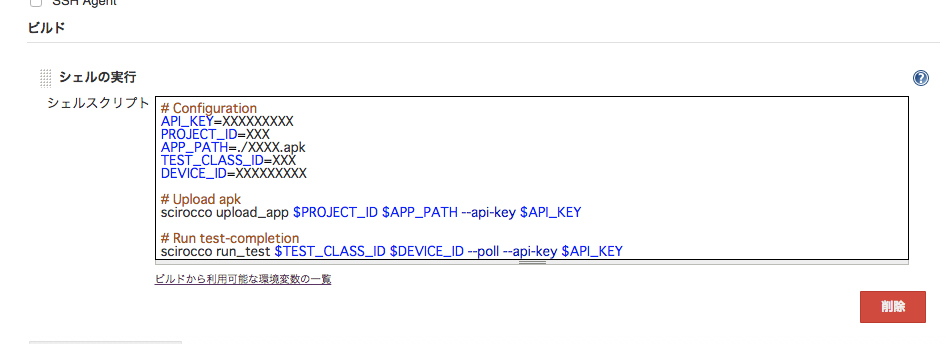
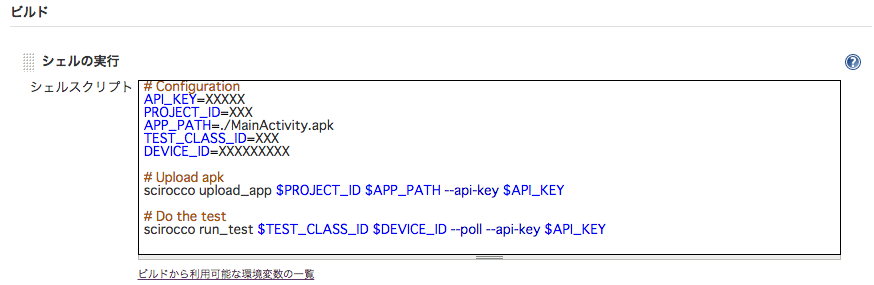
Update README.md

diff --git a/README.md b/README.md
@@ -32,25 +32,31 @@ Or install it yourself as:
 
 ## Jenkins Integration
 
-In Jenkins create a new Execute Shell build step as below.
+* In Jenkins, set up a new task.
+* In the "Execute shell" section, add the following:
 
-    # Configuration
-    API_KEY=XXXXXXXXX
-    PROJECT_ID=XXX
-    APP_PATH=./XXXX.apk
-    TEST_CLASS_ID=XXX
-    DEVICE_ID=XXXXXXXXX
+~~~
+# Configuration
+API_KEY=XXXXX
+PROJECT_ID=XXX
+APP_PATH=./MainActivity.apk
+TEST_CLASS_ID=XXX
+DEVICE_ID=XXXXXXXXX
 
-    # Upload apk
-    scirocco upload_app $PROJECT_ID $APP_PATH --api-key $API_KEY
+# Upload apk
+scirocco upload_app $PROJECT_ID $APP_PATH --api-key $API_KEY
 
-    # Run test-completion
-    scirocco run_test $TEST_CLASS_ID $DEVICE_ID --poll --api-key $API_KEY
+# Do the test
+scirocco run_test $TEST_CLASS_ID $DEVICE_ID --poll --api-key $API_KEY
+~~~
 
+Here's what that code looks like in Jenkins:
 
 ![Jenkins Integration](https://raw.githubusercontent.com/sonixlabs/scirocco-rb/master/jenkins.png)
 
-                       
+* Save the task.
+* Execute the task and check for the console output.
+
 ## Development
 
 After checking out the repo, run `bin/setup` to install dependencies. Then, run `bin/console` for an interactive prompt that will allow you to experiment. Run `bundle exec scirocco` to use the code located in this directory, ignoring other installed copies of this gem.
